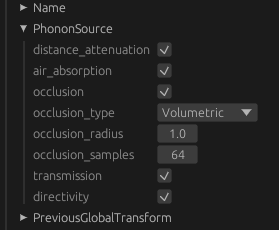
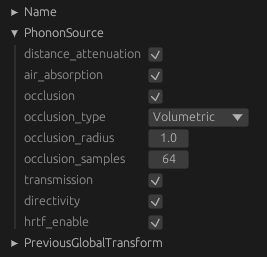
feat: Add toggle for HRTF (#2)

Changed region(s): [[0.03, 0.1826, 0.9288, 0.9739], [0.03, 0.0913, 0.4195, 0.1522], [0.03, 0.0, 0.2397, 0.0609]]

diff --git a/src/phonon_plugin.rs b/src/phonon_plugin.rs
@@ -1,9 +1,9 @@
 use crate::phonon_mesh;
 use crate::phonon_mesh::instancing::StaticMeshes;
 use bevy::prelude::*;
+use bevy_fmod::libfmod::{Dsp, EventInstance};
 use bevy_fmod::prelude::AudioListener;
 use bevy_fmod::prelude::AudioSource;
-use bevy_fmod::libfmod::{Dsp, EventInstance};
 use phonon::effects::direct::DirectApplyFlags;
 use phonon::models::air_absorption::DefaultAirAbsorptionModel;
 use phonon::models::directivity::Directivity;
@@ -27,6 +27,7 @@ pub struct PhononSource {
     // todo document what transmission is and what is needed to make it work (materials)
     pub transmission: bool,
     pub directivity: bool,
+    pub hrtf_enable: bool,
 }
 
 impl Default for PhononSource {
@@ -40,6 +41,7 @@ impl Default for PhononSource {
             occlusion_samples: 64,
             transmission: true,
             directivity: true,
+            hrtf_enable: true,
         }
     }
 }
@@ -88,12 +90,23 @@ impl Plugin for PhononPlugin {
                         phonon_mesh::update_audio_mesh_transforms,
                     ),
                     update_steam_audio,
+                    phonon_source_changed,
                 )
                     .chain(),
             );
 
         if self.auto_add_phonon_sources {
             app.add_systems(Update, register_phonon_sources);
+        }
+    }
+}
+
+fn phonon_source_changed(query: Query<(&AudioSource, &PhononSource), Changed<PhononSource>>) {
+    for (audio_source, component) in &query {
+        if let Some(spatializer) = get_phonon_spatializer(audio_source.event_instance) {
+            spatializer
+                .set_parameter_bool(Params::DirectBinaural as i32, component.hrtf_enable)
+                .unwrap()
         }
     }
 }

diff --git a/README.md b/README.md
@@ -23,7 +23,6 @@ through Discord (user: ixml). If it's working well for you I'd also like to hear
     - Transmission (one material per mesh for now)
     - Directivity
 
-TODO: Update with latest addition (hrtf)
 ![FMOD Phonon Spatializer](/media/phonon-spatializer.png)
 
 Planned: Geometry-based reverb (CPU/GPU), baking and more.
